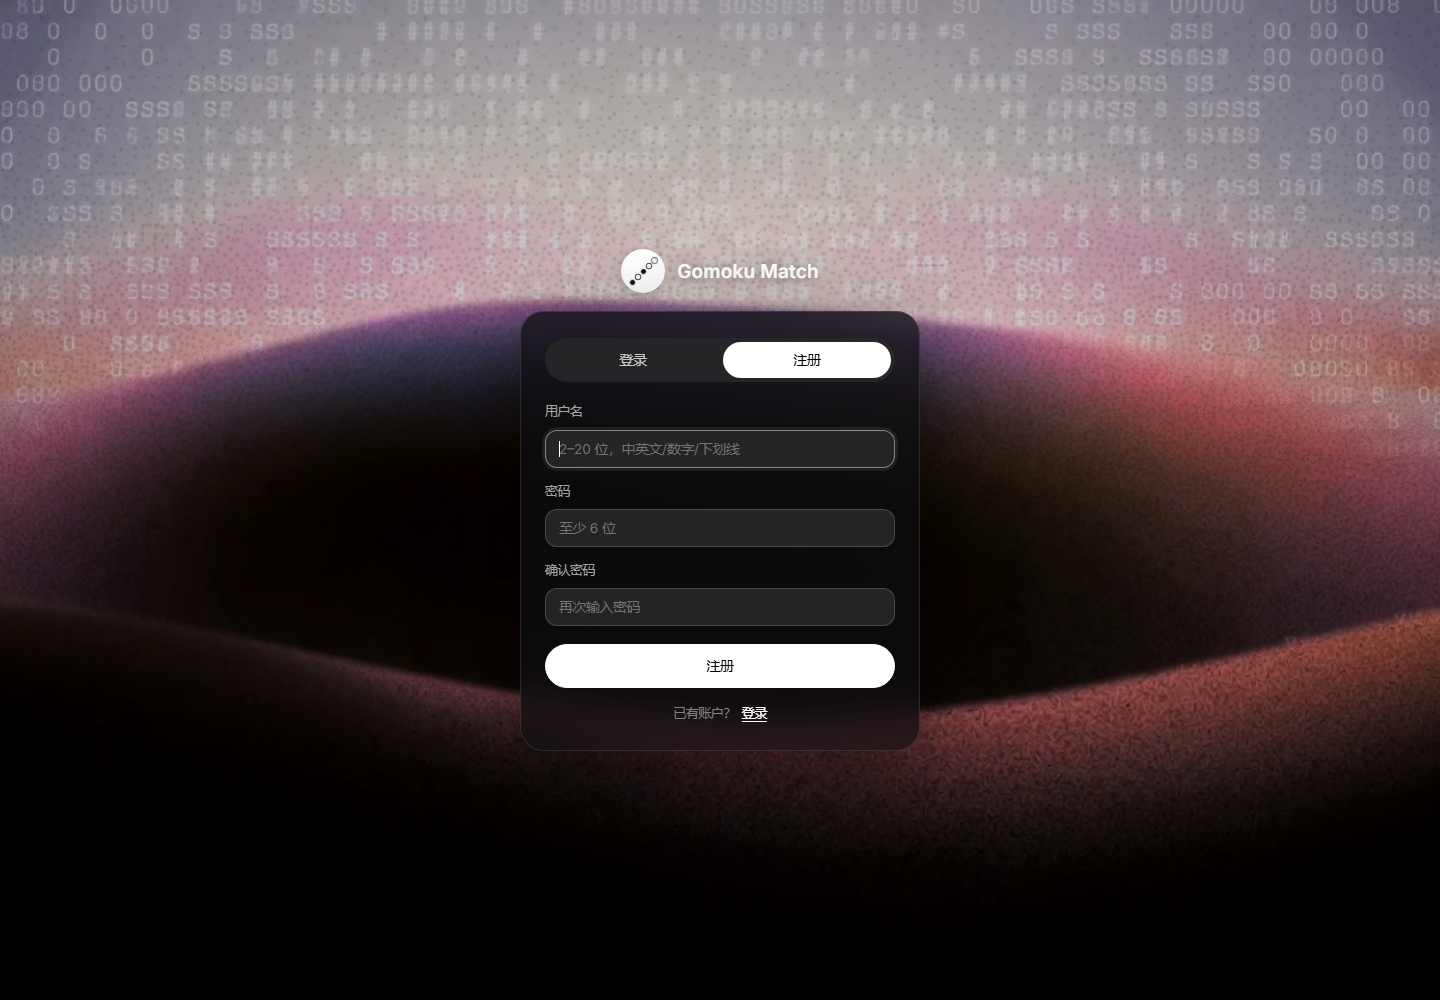
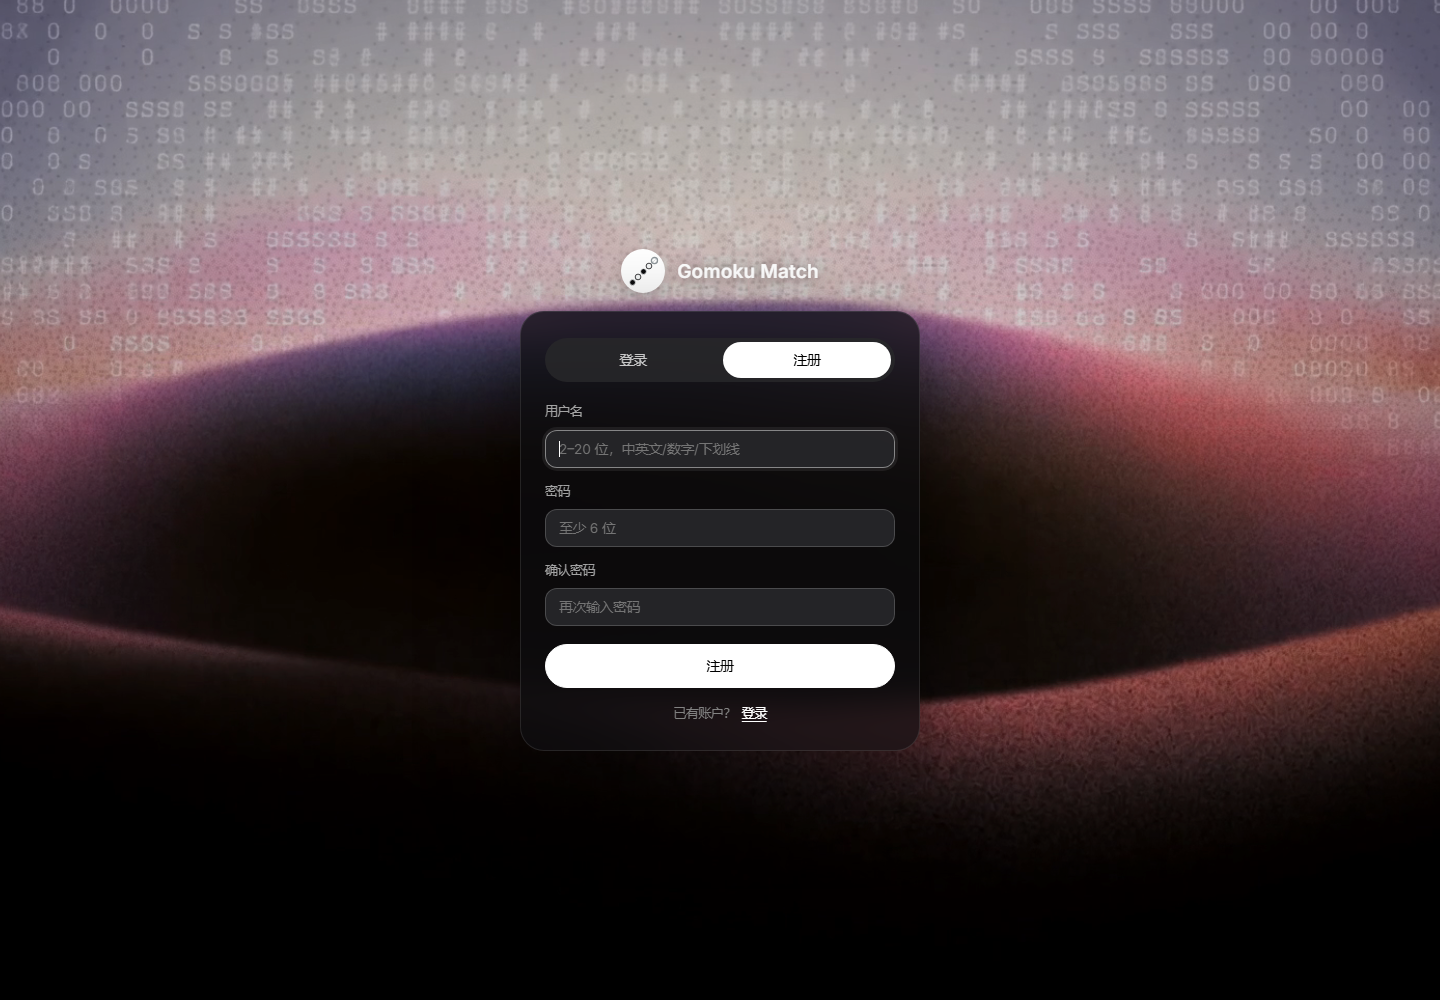
chore(web): 前端资源全部本地化
背景视频只读本地 assets/bg.mp4，移除远端 source；README 徽章下载到 docs/badges；同步更新走查截图。

diff --git a/web/site/app.js b/web/site/app.js
@@ -862,16 +862,12 @@ function landscapeHint() {
 // 内页沿用首页那段极光视频。标记里不写死：八个页面各抄一遍 <video> 只会
 // 越抄越走样，这里统一注入，样式全在 app.css 的 .bg 一节。
 // login.html 自己写了一份（它比内页更亮，见 login.css），先查重再插。
+// 视频只读项目内的 assets/bg.mp4，不请求任何外部地址。
 function mountBackdrop() {
   if (document.querySelector('.bg')) return
   const video = el(
     'video',
     { class: 'bg-video', autoplay: true, loop: true, playsinline: true, 'aria-hidden': 'true' },
-    el('source', {
-      src: 'https://motionsites.org/assets/prompt-media/f1862a9c64d125907d30.mp4',
-      type: 'video/mp4',
-    }),
-    // 远端拉不到（境内网络抖动）时退到本地副本，页面不至于黑成纯色
     el('source', { src: 'assets/bg.mp4', type: 'video/mp4' }),
   )
   // muted 必须在插入文档前设成属性，否则自动播放会被拦

diff --git a/web/site/index.html b/web/site/index.html
@@ -14,11 +14,6 @@
 <body>
   <div class="bg">
     <video class="bg-video" autoplay muted loop playsinline>
-      <source
-        src="https://motionsites.org/assets/prompt-media/f1862a9c64d125907d30.mp4"
-        type="video/mp4"
-      />
-      <!-- CloudFront 拉不到时（境内网络波动）用本地副本兜底，页面不至于黑成纯色 -->
       <source src="assets/bg.mp4" type="video/mp4" />
     </video>
   </div>

diff --git a/web/site/login.html b/web/site/login.html
@@ -12,7 +12,6 @@
   <!-- 落地页同款的视频背景：登录是访客看到的第一屏，风格必须跟首页接上 -->
   <div class="bg">
     <video class="bg-video" autoplay muted loop playsinline>
-      <source src="https://motionsites.org/assets/prompt-media/f1862a9c64d125907d30.mp4" type="video/mp4" />
       <source src="assets/bg.mp4" type="video/mp4" />
     </video>
   </div>

diff --git a/README.md b/README.md
@@ -1,9 +1,9 @@
 # Gomoku Match
 
-[![在线演示](https://img.shields.io/badge/在线演示-直接体验-a63628?style=flat-square)](https://gomoku-match.app.workbuddy.host/?sharecode=MJAKMJUVAA)
-[![后端测试](https://img.shields.io/badge/后端测试-459%20项通过-2f6f4e?style=flat-square)](#测试)
-[![浏览器走查](https://img.shields.io/badge/浏览器走查-189%20项通过-2f6f4e?style=flat-square)](#测试)
-[![许可](https://img.shields.io/badge/许可-MIT-8a8f86?style=flat-square)](LICENSE)
+[![在线演示](docs/badges/demo.svg)](https://gomoku-match.app.workbuddy.host/?sharecode=MJAKMJUVAA)
+[![后端测试](docs/badges/tests.svg)](#测试)
+[![浏览器走查](docs/badges/walk.svg)](#测试)
+[![许可](docs/badges/license.svg)](LICENSE)
 
 面向 15×15 国际连珠（Renju）规则的对弈与算法实验平台，提供人机对弈、算法竞技场、自定义策略三类对局方式，以及基于棋谱训练贪心权重的实验页面。
 
@@ -89,7 +89,7 @@
 
 ## 界面体系
 
-界面没有引入 UI 框架，全部为手写 CSS 与原生 JS，视觉围绕深色视频背景与玻璃面板展开。`web/site` 是线上静态站的源码，不是构建产物；页面直接引用 `app.css`、`styles.css` 和 `pages/*.js`，没有打包步骤。Inter、Geist Pixel、Bubbledot 与页头图标都走本地文件，不依赖 Google Fonts、OnlineWebFonts 或 Font Awesome CDN。
+界面没有引入 UI 框架，全部为手写 CSS 与原生 JS，视觉围绕深色视频背景与玻璃面板展开。`web/site` 是线上静态站的源码，不是构建产物；页面直接引用 `app.css`、`styles.css` 和 `pages/*.js`，没有打包步骤。Inter、Geist Pixel、Bubbledot、页头图标、背景视频与 README 徽章都走本地文件，不依赖任何外部 CDN。
 
 **令牌集中在 `app.css` 的 `:root`。** 底色 `--bg #050507`；正文 `--muted #a3a3a3`、`--dim #828282`；玻璃面板 `--panel rgba(9,10,14,.54)` 与 `--panel-2 rgba(26,27,33,.6)`，统一 `blur(28px) saturate(1.4)`；强调色只有两支：朱砂 `--seal #cf4529`（热、学到、上调、正在发生）与石青 `--jade #4e9a8f`（冷、基线、下调、对照）；棋盘专用木色 `--wood #dcac5f`。
 
@@ -340,6 +340,12 @@ make docker-run        # docker compose up -d，数据挂载在 gomoku-data 卷
 单进程是有意的设计：对局状态保存在内存中，多 worker 会导致各进程持有部分棋局。横向扩展需先将热态迁移至共享存储，属于独立的改造范围。
 
 CI 矩阵：Python 3.11 与 3.13，执行 `compileall`、静态站点存在性检查、全部测试、`docker build`（不推送）。前端没有构建步骤，不需要 Node。
+
+### 本地资源
+
+前端不请求外部 CDN：字体、图标、背景视频与 README 徽章都在仓库内（`web/site/fonts/`、`web/site/assets/`、`docs/badges/`）。`bg.mp4` 为本地文件，页面不再引用远端视频地址。
+
+后端唯一可选的外部服务是大模型接口（`GOMOKU_LLM_*`）；未配置密钥时 `LLMConfig().enabled` 为 false，Agent 使用内置策略，不发起外部请求。
 
 ### 托管在 WorkBuddy 云平台
 
